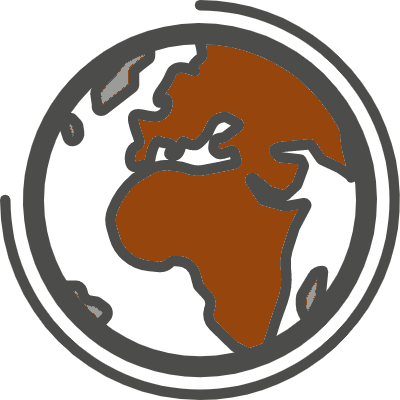
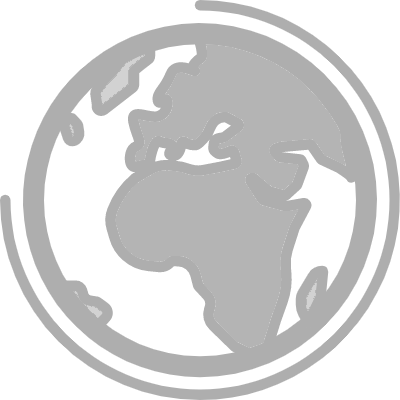
quasizero: general polish round (pre-build, more to come)
- splash: logo 78%, centered
- web logo.png: cream rounded-square background -> white (wizard welcome +
  home account block); home i4/i5 icons brown -> charcoal; MenuItem hover
  mint -> neutral #ECEBE9; wizard earth.png neutralized and softened
- tab bar: pills centered on the window center (clamped against side tools)
- topbar: light hairline separators (was system dark)
- imgui tooltips: dark text on light background (fixes unreadable hovers)
- main toolbar background: rounded ends (14px, within the 16px 9-slice margin)
- canvas menu/zoom hover circles: mint -> neutral; zoom button hidden by
  default (one-time config migration)
- nav cube hover: charcoal veil instead of orange (deps_src/imguizmo)
- plate texts (name + number) white; default plate name 'Quasizero'

diff --git a/resources/web/homepage/css/home.css b/resources/web/homepage/css/home.css
@@ -426,8 +426,8 @@ body
 
 .MenuItem:hover
 {
-	border-color: #3A3835;		/*ORCA color*/
-	background-color: #E5F0EE; /*ORCA color with %25 opacity*/
+	border-color: #3A3835;		/*Quasizero charcoal*/
+	background-color: #ECEBE9; /*Quasizero neutral hover*/
 }
 
 .MenuIcon

diff --git a/src/slic3r/GUI/Notebook.cpp b/src/slic3r/GUI/Notebook.cpp
@@ -40,7 +40,7 @@ ButtonsListCtrl::ButtonsListCtrl(wxWindow *parent, wxBoxSizer* side_tools) :
     this->SetSizer(m_sizer);
 
     m_buttons_sizer = new wxFlexGridSizer(1, m_btn_margin, m_btn_margin);
-    m_sizer->AddStretchSpacer(1); // Quasizero: center the page pills
+    m_sizer->AddSpacer(0); // Quasizero: width computed in the size handler to center the pills on the window
     m_sizer->Add(m_buttons_sizer, 0, wxALIGN_CENTER_VERTICAL | wxLEFT | wxBOTTOM, m_btn_margin);
 
     if (side_tools != NULL) {
@@ -59,6 +59,25 @@ ButtonsListCtrl::ButtonsListCtrl(wxWindow *parent, wxBoxSizer* side_tools) :
         m_sizer->AddStretchSpacer(1); // keep the pills centered when there are no right-side tools
 
     this->Bind(wxEVT_PAINT, &ButtonsListCtrl::OnPaint, this); // Quasizero: continuous white bar with rounded ends
+    this->Bind(wxEVT_SIZE, [this](wxSizeEvent &evt) {
+        // Quasizero: center the pill group on the control center (the titlebar
+        // center), clamped so it never collides with the right-side tools
+        const int    W  = GetSize().x;
+        const wxSize bs = m_buttons_sizer->CalcMin();
+        int side_w = 0;
+        if (m_sizer->GetItemCount() >= 4) {
+            wxSizerItem *st = m_sizer->GetItem(m_sizer->GetItemCount() - 1);
+            if (st != nullptr && st->IsSizer()) side_w = st->GetSizer()->CalcMin().x;
+        }
+        int x = (W - bs.x) / 2;
+        x = std::max(0, std::min(x, W - bs.x - side_w - FromDIP(16)));
+        wxSizerItem *sp = m_sizer->GetItemCount() > 0 ? m_sizer->GetItem((size_t)0) : nullptr;
+        if (sp != nullptr && sp->IsSpacer() && sp->GetSize().x != x) {
+            sp->AssignSpacer(x, 0);
+            Layout();
+        }
+        evt.Skip();
+    });
     Bind(wxEVT_SYS_COLOUR_CHANGED, [this](auto& e){
     });
 }

diff --git a/src/slic3r/GUI/PartPlate.cpp b/src/slic3r/GUI/PartPlate.cpp
@@ -2427,14 +2427,14 @@ void PartPlate::generate_plate_name_texture()
 
 	// generate m_name_texture texture from m_name with generate_from_text_string
 	m_name_texture.reset();
-	auto text = m_name.empty()? _L("Untitled") : from_u8(m_name);
+	auto text = m_name.empty()? wxString("Quasizero") : from_u8(m_name); // Quasizero default plate name
 
     // ORCA also scale font size to prevent low res texture
     int size = wxGetApp().em_unit() * PARTPLATE_EDIT_PLATE_NAME_ICON_SIZE;
     auto l = Label::sysFont(size, true);
     wxFont* font = &l;
 
-	wxColour foreground(0xf2, 0x75, 0x4e, 0xff);
+	wxColour foreground(0xff, 0xff, 0xff, 0xff); // Quasizero: white plate texts
 	if (!m_name_texture.generate_from_text_string(text.ToUTF8().data(), *font, *wxBLACK, foreground)) {
 		BOOST_LOG_TRIVIAL(error) << "PartPlate::generate_plate_name_texture(): generate_from_text_string() failed";
 		return;
@@ -4145,7 +4145,7 @@ void PartPlateList::generate_icon_textures()
 			else
 				file_name = std::to_string(i+1);
 
-			wxColour foreground(0xf2, 0x75, 0x4e, 0xff);
+			wxColour foreground(0xff, 0xff, 0xff, 0xff); // Quasizero: white plate texts
 			if (!m_idx_textures[i].generate_from_text_string(file_name, *font, *wxBLACK, foreground)) {
 				BOOST_LOG_TRIVIAL(error) << __FUNCTION__ << boost::format(":load file %1% failed") % file_name;
 			}

diff --git a/src/slic3r/GUI/GUI_App.cpp b/src/slic3r/GUI/GUI_App.cpp
@@ -307,7 +307,9 @@ public:
         bool dark_mode = m_fg_color != wxColour("#6B6A6A");
         wxSize sz  = m_window->GetClientSize();
         BitmapCache bmp_cache;
-        m_logo_bmp = *bmp_cache.load_svg(dark_mode ? "splash_logo_dark" : "splash_logo", sz.GetWidth(), sz.GetHeight());
+        // Quasizero: slightly smaller splash logo, drawn centered
+        const wxSize qz_lsz(int(sz.GetWidth() * 0.78), int(sz.GetHeight() * 0.78));
+        m_logo_bmp = *bmp_cache.load_svg(dark_mode ? "splash_logo_dark" : "splash_logo", qz_lsz.GetWidth(), qz_lsz.GetHeight());
 
         m_window->Bind(wxEVT_PAINT, &SplashScreen::OnPaint, this);
         m_window->Refresh();
@@ -322,7 +324,8 @@ public:
         dc.SetBackground(wxBrush(m_bg_color));
         dc.Clear();
         if (m_logo_bmp.IsOk())
-            dc.DrawBitmap(m_logo_bmp, 0, 0, true);
+            dc.DrawBitmap(m_logo_bmp, (c_sz.GetWidth() - m_logo_bmp.GetWidth()) / 2,
+                          (c_sz.GetHeight() - m_logo_bmp.GetHeight()) / 2, true);
 
         wxRect rc = wxRect(0, 0, c_sz.GetWidth(), 0);
         dc.SetTextForeground(m_fg_color);

diff --git a/src/slic3r/GUI/ImGuiWrapper.cpp b/src/slic3r/GUI/ImGuiWrapper.cpp
@@ -1105,7 +1105,7 @@ void ImGuiWrapper::tooltip(const char *label, float wrap_width)
 {
     ImGui::BeginTooltip();
     ImGui::PushTextWrapPos(wrap_width);
-    ImGui::PushStyleColor(ImGuiCol_Text, ImVec4(1.00f, 1.00f, 1.00f, 1.00f));
+    ImGui::PushStyleColor(ImGuiCol_Text, ImVec4(0.12f, 0.12f, 0.12f, 1.00f)); // Quasizero: dark text on light tooltip
     ImGui::TextUnformatted(label);
     ImGui::PopStyleColor(1);
     ImGui::PopTextWrapPos();
@@ -1120,7 +1120,7 @@ void ImGuiWrapper::tooltip(const wxString &label, float wrap_width)
 {
     ImGui::BeginTooltip();
     ImGui::PushTextWrapPos(wrap_width);
-    ImGui::PushStyleColor(ImGuiCol_Text, ImVec4(1.00f, 1.00f, 1.00f, 1.00f));
+    ImGui::PushStyleColor(ImGuiCol_Text, ImVec4(0.12f, 0.12f, 0.12f, 1.00f)); // Quasizero: dark text on light tooltip
     ImGui::TextUnformatted(label.ToUTF8().data());
     ImGui::PopStyleColor(1);
     ImGui::PopTextWrapPos();

diff --git a/src/slic3r/GUI/BBLTopbar.cpp b/src/slic3r/GUI/BBLTopbar.cpp
@@ -99,7 +99,16 @@ class BBLTopbarArt : public wxAuiDefaultToolBarArt
 public:
     virtual void DrawBackground(wxDC& dc, wxWindow* wnd, const wxRect& rect) wxOVERRIDE;
     virtual void DrawButton(wxDC& dc, wxWindow* wnd, const wxAuiToolBarItem& item, const wxRect& rect) wxOVERRIDE;
+    virtual void DrawSeparator(wxDC& dc, wxWindow* wnd, const wxRect& rect) wxOVERRIDE; // Quasizero
 };
+
+void BBLTopbarArt::DrawSeparator(wxDC& dc, wxWindow* wnd, const wxRect& rect)
+{
+    // Quasizero: light hairline instead of the system (dark-theme) separator
+    dc.SetPen(wxPen(wxColour(223, 222, 220)));
+    const int x = rect.x + rect.width / 2;
+    dc.DrawLine(x, rect.y + wnd->FromDIP(6), x, rect.y + rect.height - wnd->FromDIP(6));
+}
 
 void BBLTopbarArt::DrawBackground(wxDC& dc, wxWindow* wnd, const wxRect& rect)
 {

diff --git a/src/libslic3r/AppConfig.cpp b/src/libslic3r/AppConfig.cpp
@@ -429,8 +429,13 @@ void AppConfig::set_defaults()
         set("auto_calculate_flush","all");
     }
 
+    // Quasizero: zoom button hidden by default (one-time migration for existing configs)
+    if (get("qz_zoom_btn_hidden_default").empty()) {
+        set_bool("show_canvas_zoom_button", false);
+        set_bool("qz_zoom_btn_hidden_default", true);
+    }
     if (get("show_canvas_zoom_button").empty()) {
-        set_bool("show_canvas_zoom_button", true);
+        set_bool("show_canvas_zoom_button", false);
     }
 
     if (get("remember_printer_config").empty()) {

diff --git a/deps_src/imguizmo/ImGuizmo.cpp b/deps_src/imguizmo/ImGuizmo.cpp
@@ -2935,7 +2935,7 @@ namespace IMGUIZMO_NAMESPACE
                   gContext.mDrawList->AddConvexPolyFilled(faceCoordsScreen, 4, faceColor);
                   if (boxes[boxCoordInt])
                   {
-                     gContext.mDrawList->AddConvexPolyFilled(faceCoordsScreen, 4, IM_COL32(0xF0, 0xA0, 0x60, 0x80));
+                     gContext.mDrawList->AddConvexPolyFilled(faceCoordsScreen, 4, IM_COL32(0x3A, 0x38, 0x35, 0x46) /* Quasizero neutral hover */);
 
 #if IMGUI_VERSION_NUM >= 18723
                      ImGui::SetNextFrameWantCaptureMouse(true);
